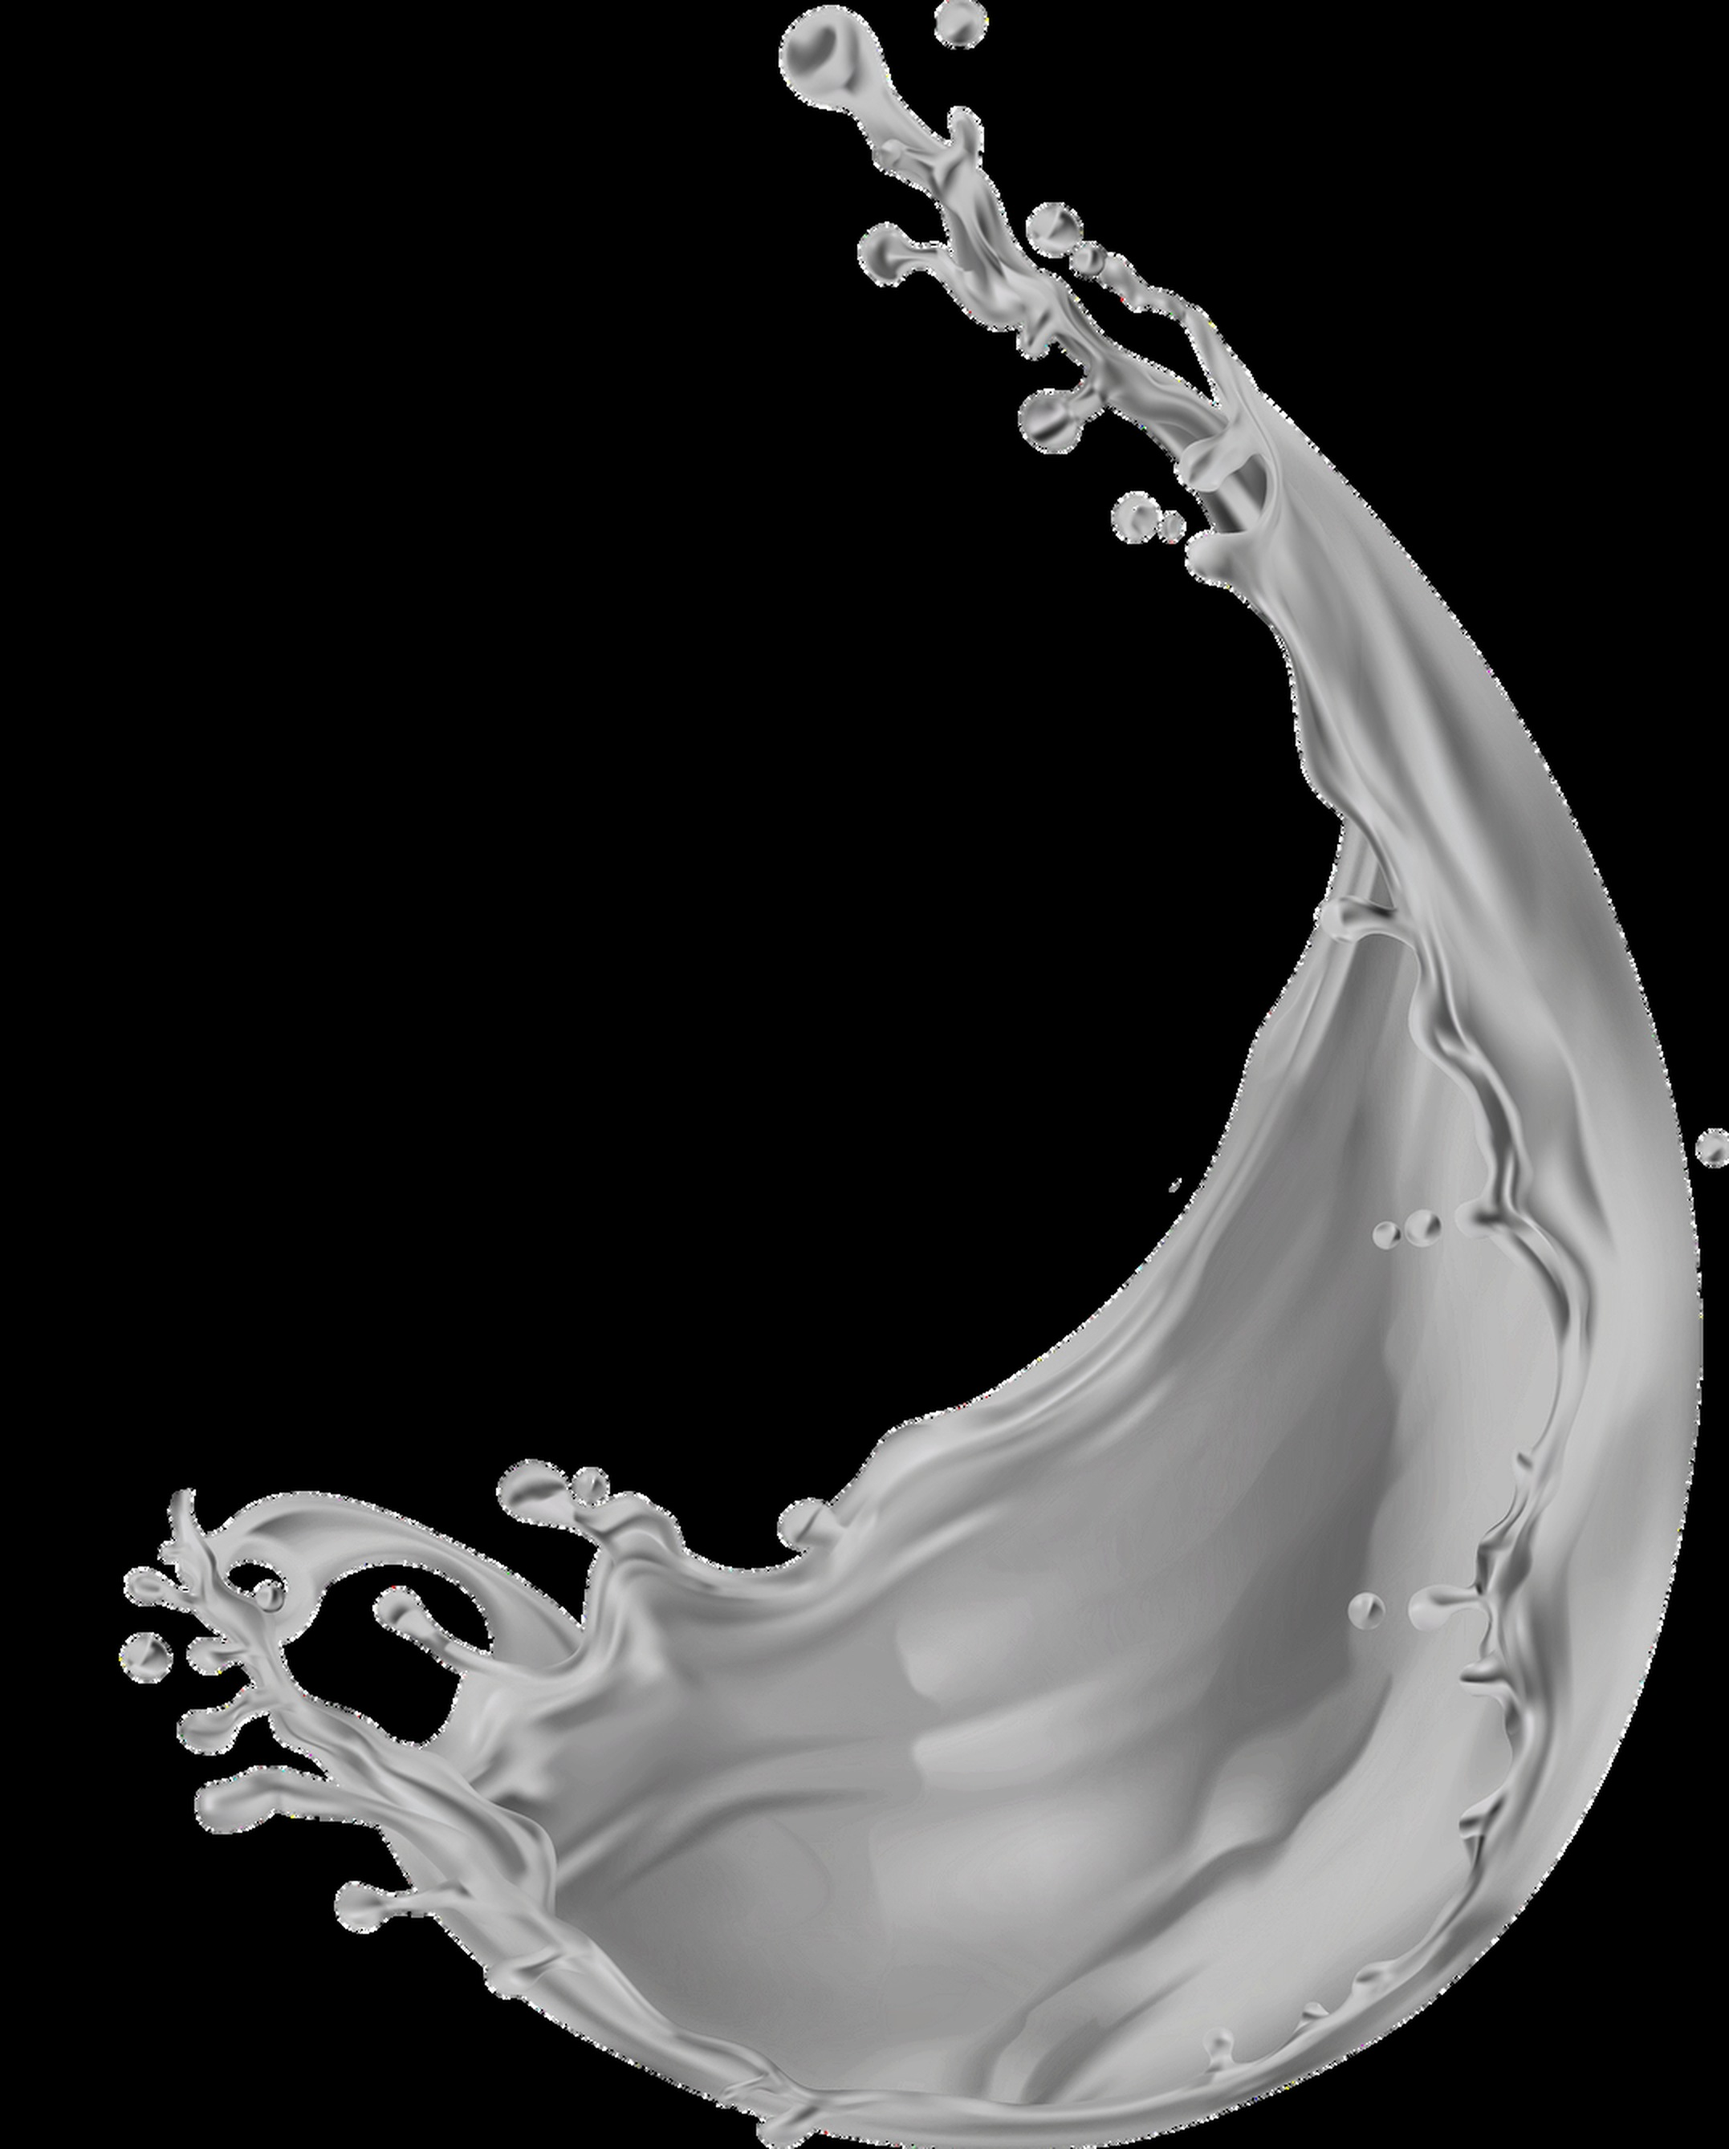
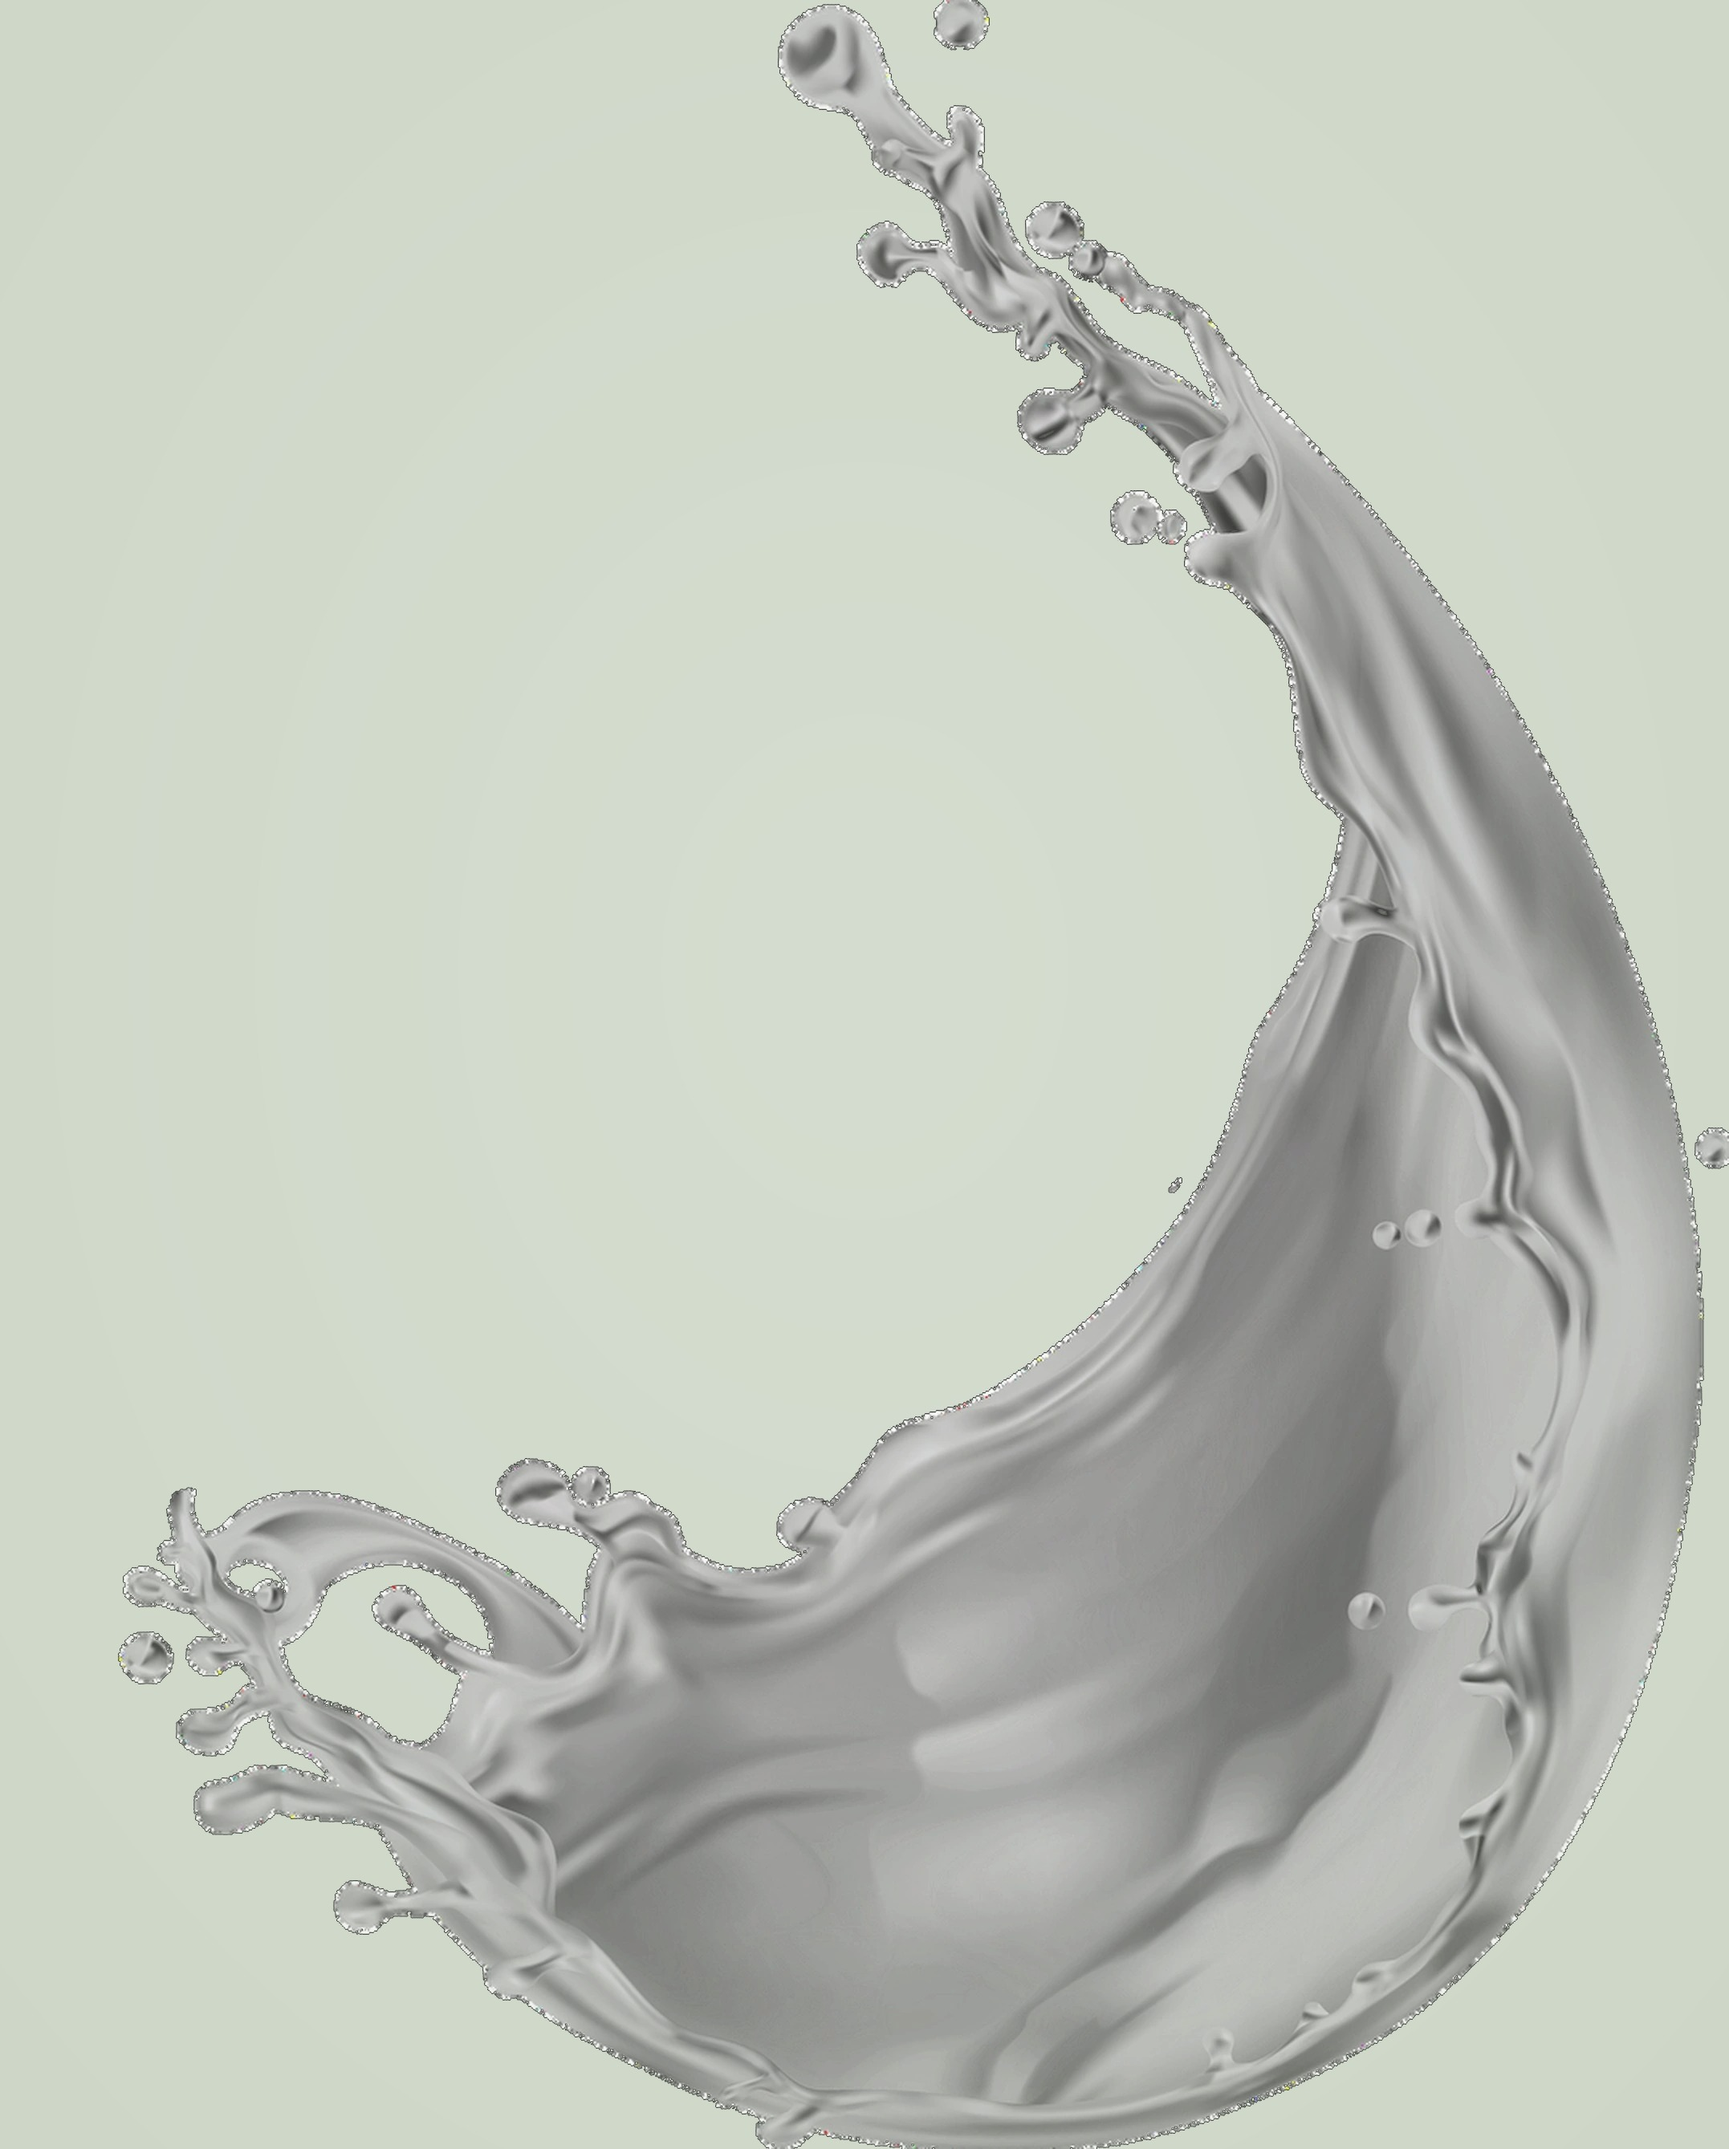
style: sage product backdrops instead of black/white

diff --git a/src/lib/data/seed.ts b/src/lib/data/seed.ts
@@ -19,14 +19,14 @@ const placeholders = {
     "/images/products/six-lift-bottle.webp",
     "Kesu Six Lift ampul",
   ),
-  liftBg: img("/images/products/six-lift-bg.webp", "Kesu Six Lift arka plan"),
+  liftBg: img("/images/products/six-lift-bg.jpg", "Kesu Six Lift arka plan"),
   aging: img("/images/products/anti-aging.jpg", "Kesu Anti-Aging ampul"),
   agingBottle: img(
     "/images/products/anti-aging-bottle.webp",
     "Kesu Anti-Aging ampul",
   ),
   agingBg: img(
-    "/images/products/anti-aging-bg.webp",
+    "/images/products/anti-aging-bg.jpg",
     "Kesu Anti-Aging arka plan",
   ),
   white: img("/images/products/white-effect.jpg", "Kesu White Effect ampul"),
@@ -35,15 +35,15 @@ const placeholders = {
     "Kesu White Effect ampul",
   ),
   whiteBg: img(
-    "/images/products/white-effect-bg.webp",
+    "/images/products/white-effect-bg.jpg",
     "Kesu White Effect arka plan",
   ),
   eyes: img("/images/products/eyes.jpg", "Kesu Eyes ampul"),
   eyesBottle: img("/images/products/eyes-bottle.webp", "Kesu Eyes ampul"),
-  eyesBg: img("/images/products/eyes-bg.webp", "Kesu Eyes arka plan"),
+  eyesBg: img("/images/products/eyes-bg.jpg", "Kesu Eyes arka plan"),
   hair: img("/images/products/hair.jpg", "Kesu Hair ampul"),
   hairBottle: img("/images/products/hair-bottle.webp", "Kesu Hair ampul"),
-  hairBg: img("/images/products/hair-bg.webp", "Kesu Hair arka plan"),
+  hairBg: img("/images/products/hair-bg.jpg", "Kesu Hair arka plan"),
   editorial: {
     hero: img("/images/products/six-lift.jpg", "Kesu profesyonel bakım"),
     philosophy: img(

diff --git a/src/app/globals.css b/src/app/globals.css
@@ -223,6 +223,17 @@
     position: relative;
     z-index: 1;
   }
+
+  /* Product stage — sage field (not black, not white) */
+  .kesu-product-stage {
+    background:
+      radial-gradient(
+        ellipse 80% 70% at 50% 42%,
+        color-mix(in srgb, var(--accent-soft) 55%, white) 0%,
+        color-mix(in srgb, var(--accent) 22%, #e4e8df) 48%,
+        #d5ddd0 100%
+      );
+  }
 }
 
 /* Opening intro — liquid premium field */

diff --git a/src/components/product/ProductVisual.tsx b/src/components/product/ProductVisual.tsx
@@ -59,7 +59,7 @@ export function ProductVisual({
       layoutId={shared ? layoutId : undefined}
       transition={shared ? sharedImageTransition : undefined}
       className={cn(
-        "relative overflow-hidden bg-surface aspect-[4/5]",
+        "kesu-product-stage relative overflow-hidden aspect-[4/5]",
         className,
       )}
       style={{ borderRadius: 0 }}
